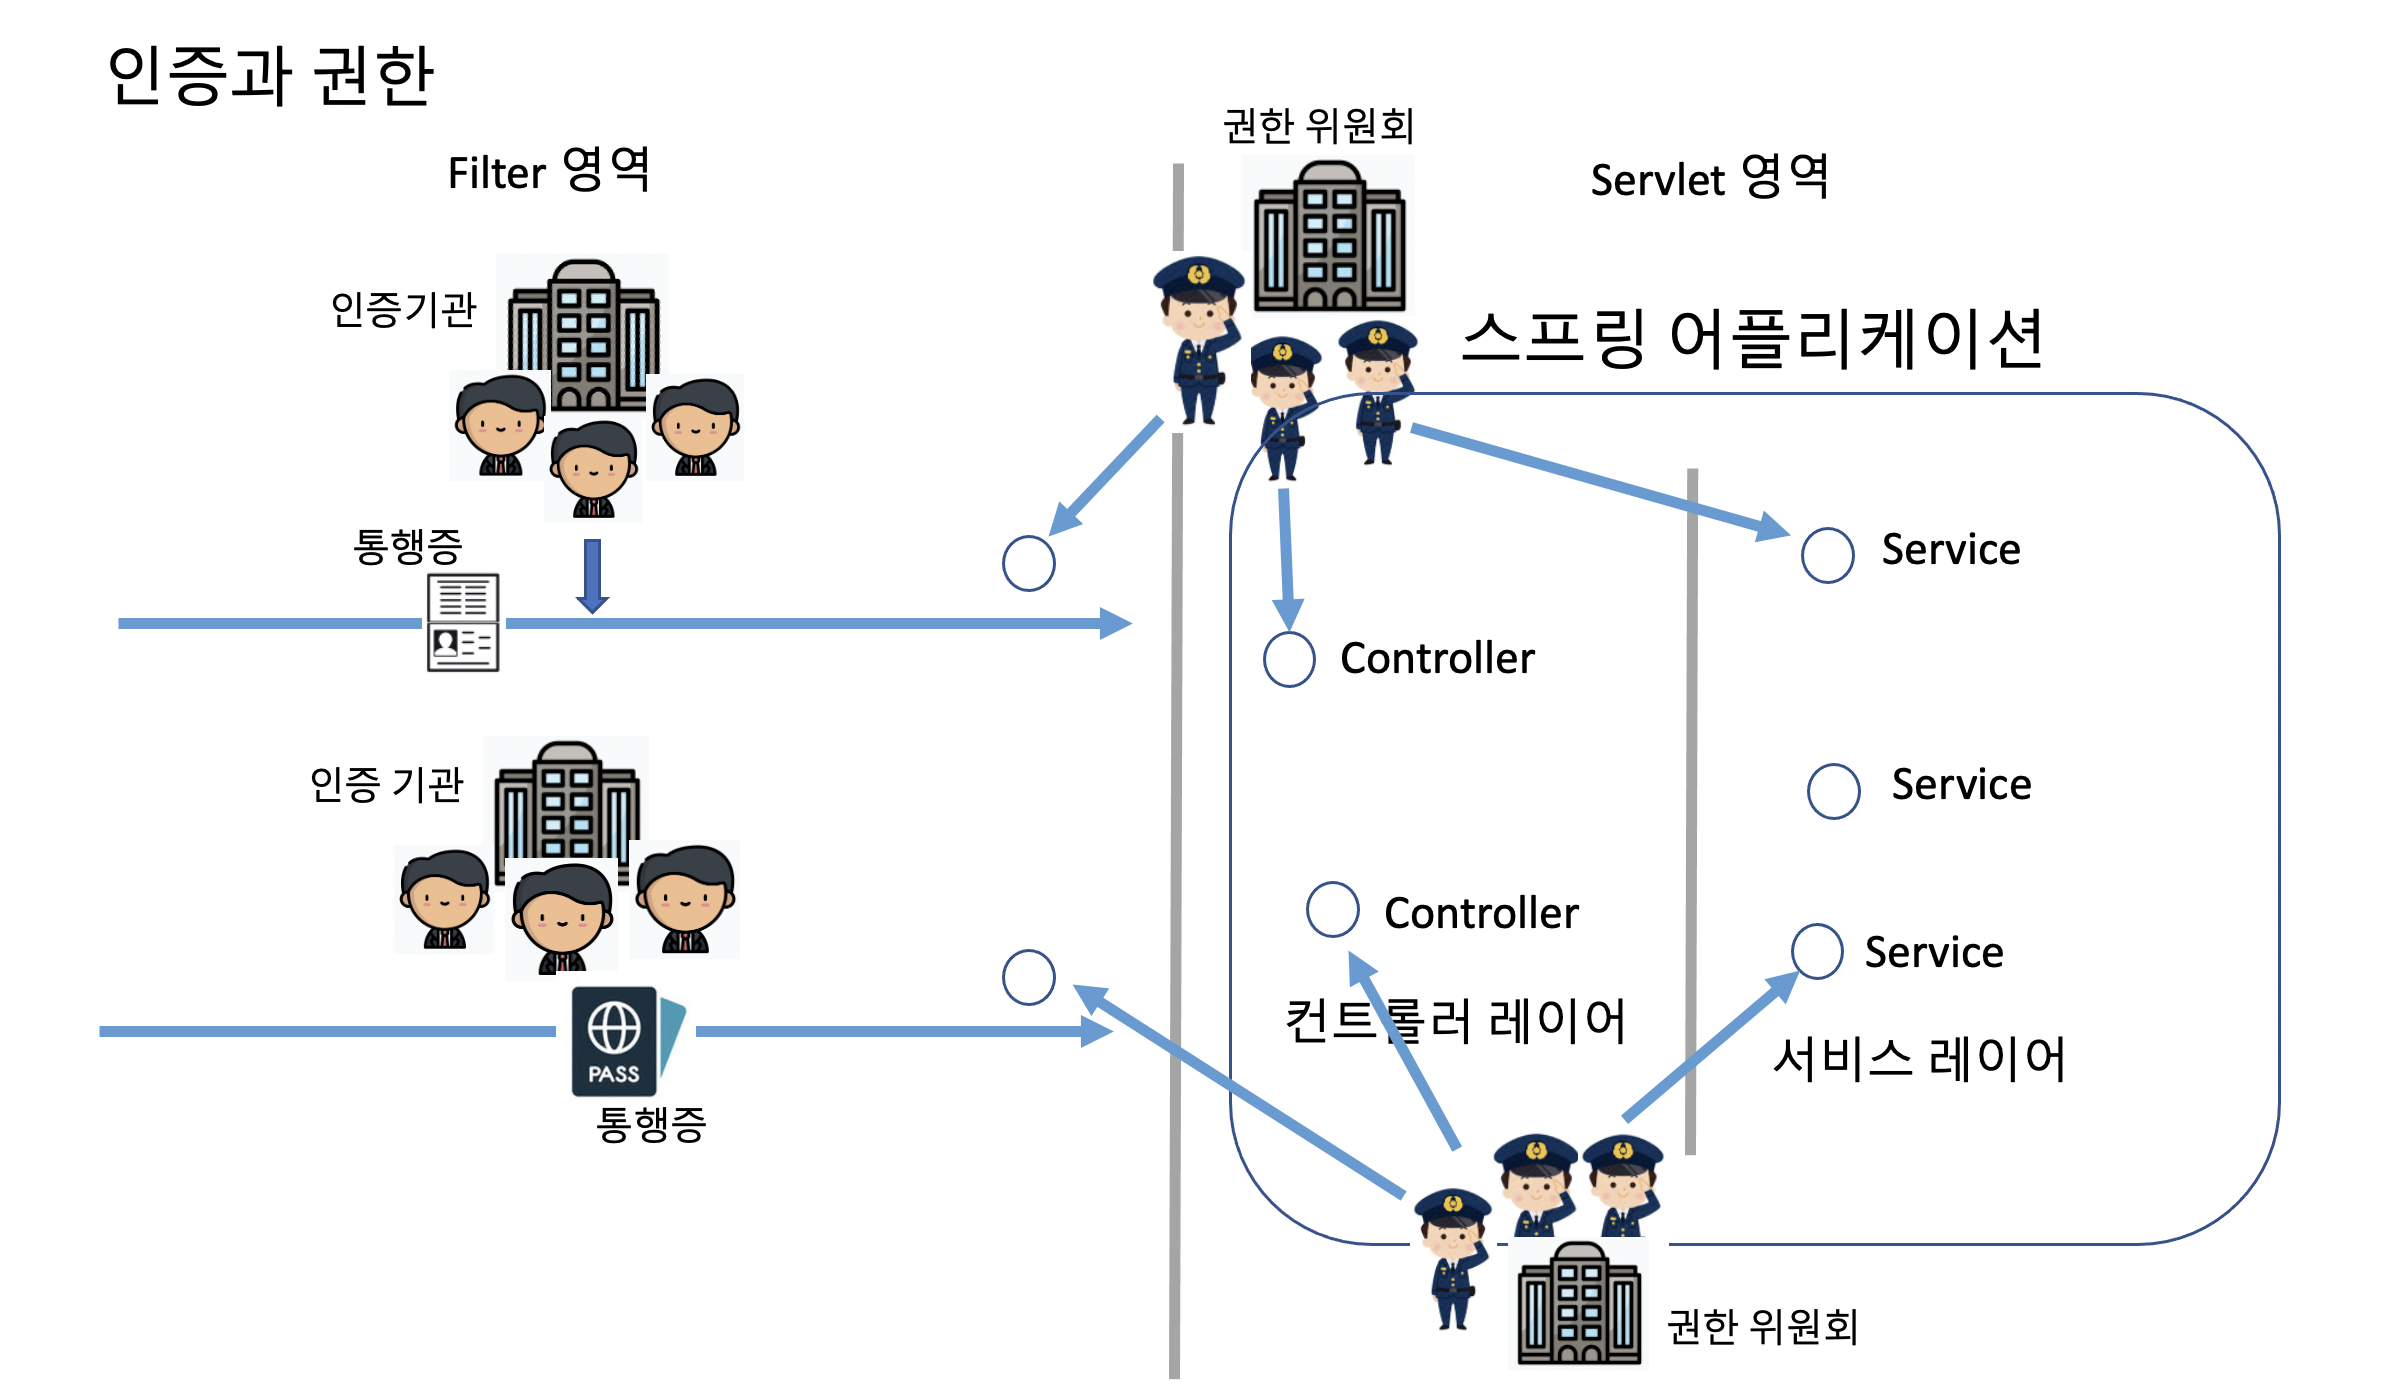
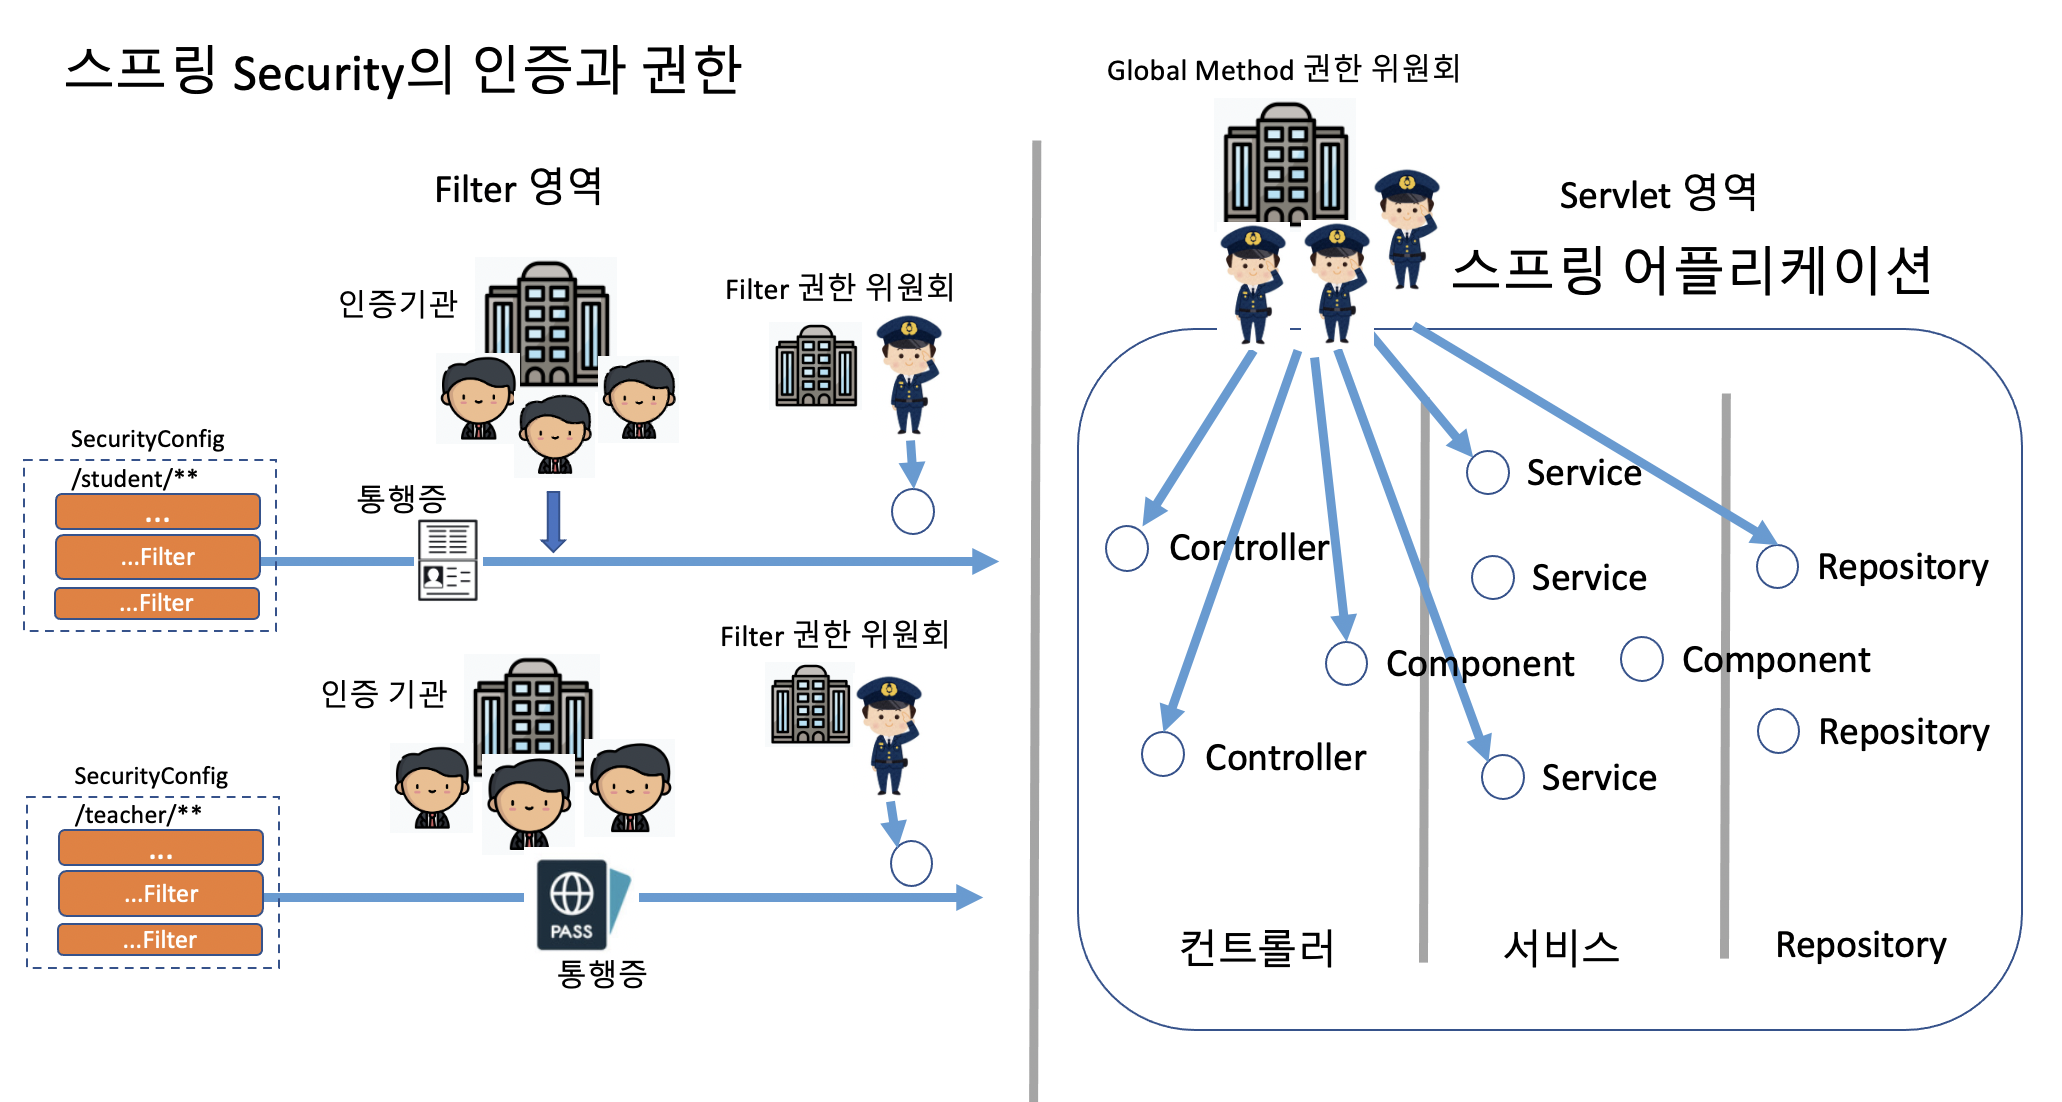
add

Changed region(s): [[0.0, 0.0309, 0.9622, 1.0], [0.8691, 0.6479, 0.9622, 0.6788], [0.9311, 0.3085, 0.9622, 0.3394]]

diff --git a/part2/Lec-1 권한의 큰 그림.md b/part2/Lec-1 권한의 큰 그림.md
@@ -1,70 +1,77 @@
 # 스프링 시큐리티의 권한
 
-인증이 모든 요청에 대해 공통적으로 처리해야 하는 것인데 반해 권한은 상황상황에 맞게 처리해야 하는 특징이 있습니다. 그래서 인증을 처리하는 코드는 필터와 어울리고, 권한은 interceptor 와 어울려 작동합니다. 필터는 servlet container 가 제공하는 구조를 스프링이 자체 filterchain 을 만들어서 관리하는 방식으로 처리하고 있고, interceptor 는 스프링이 빈을 등록하고 프락시 객체를 가지고 엮어주는 과정에서 각 point cut에 interceptor 를 제공하는 메커니즘으로 작동합니다. 필터 위에 상주하는 Interceptor 를 FilterSecurityInterceptor라 하고 Method 위에 annotation의 형태로 상주하는 Interceptor 를 MethodSecurityInterceptor 라고 합니다.
+## AOP : Aspect Oriented Programming
+
+스프링 전반을 아우르는 여러 철학이 있습니다. 가장 중요한 철학은 DI(의존성 주입) 이죠. 개발자가 직접 코딩하지 말고 컨테이너에게 맡기라는 말입니다. DI를 통해 약한 상관성(Loosely coupled)을 설계할 수 있고 모듈화를 완성할 수 있습니다. DI와 함께 매우 중요한 철학이 관심사의 분리입니다. 코드를 스파게티로 엮지 말고 관심이 있는 코드들을 따로 관리하라는 거죠. 관심사 분리가 가능한 이유는 AOP 기술 덕분입니다. AOP는 아래와 같은 개념들로 구성됩니다.
+
+### AOP란
+
+- Aspect : 공통의 관심사
+  - 권한 처리
+  - 로그
+  - 트렌젝션 관리
+  - 세션관리
+  - 기타...
+- JoinPoint : 관절. 빈과 빈 사이에서 호출이 일어나는 곳
+  - 메소드 호출
+  - setter 를 통한 멤버 주입
+  - 생성자 호출
+- Advice : 호출시 추가로 처리해줄 로직
+  - 인터셉트 해서 주입해줄 코드
+- PointCut : JoinPoint 를 만들어 내는 칼
+  - JoinPoint 를 지적해주는 Expression
+- Weaving
+  - 빈과 빈을 Proxy 로 감싸서 연결해주는 작업
+  - 빈과 빈의 호출사이에 PointCut을 적용해서 JoinPoint 를 판별한 다음 PointCut 을 요청한 Advice를 JoinPoint에 적용해줌.
+
+## 권한 (Authorization)
+
+- 인증이 모든 요청에 대해 공통적으로 처리해야 하는 것인데 반해 권한은 상황상황에 맞게 처리해야 하는 특징이 있습니다.
+- 그래서 인증을 처리하는 코드는 필터와 어울리고, 권한은 interceptor 와 어울려 작동합니다. 필터는 servlet container 가 제공하는 구조를 스프링이 자체 filterchain 을 만들어서 관리하는 방식으로 처리하고 있고, interceptor 는 스프링이 빈을 등록하고 프락시 객체를 가지고 엮어주는 과정에서 각 PointCut에 의해 구분된 JoinPoint에 interceptor 가 Advice 하는 메커니즘으로 작동합니다.
+- 필터 위에 상주하는 Interceptor 를 FilterSecurityInterceptor라 하고 Method 위에 annotation의 형태로 상주하는 Interceptor 를 MethodSecurityInterceptor 라고 합니다. FilterInterceptor 는 필터 설정에서 설정하고 MethodInterceptor 는 annotation 으로 설정합니다. @EnableGlobalMethodSecurity 를 설정해줘야 MethodSecurityInterceptor 가 동작합니다.
+
+## 권한 처리의 예
+
+-
+
+## 권한 처리에 관여하는 것들
+
 그런데 권한을 체크하려면 다음의 정보가 필요합니다.
 
 - 접근하려고 하는 사람이 어떤 접근 권한을 가지고 있는가?
 
   - GrantedAuthority
+    - Role Based
+    - Scope Based
+    - User Defined
 
 - 접근하려고 하는 상황에서는 체크해야 할 내용은 무엇인가?
 
   - SecurityMetadataSource, ConfigAttribute
   - 정적인 경우와 동적인 경우
-  - AccessDecisionVoter
+  - AccessDecisionVoter 가 vote 해줌.
 
 - 여러가지 판단 결과가 나왔을 때 취합은 어떤 방식으로 할 것인가?
 
-  - AccessDecisionManager
+  - AccessDecisionManager : 권한 위원회
+    - AffirmativeBased : 긍정 위원회
+    - ConsensusBased : 다수결 위원회
+    - UnanimouseBased : 만장일치 위원회
 
-  <img src="../images/fig-22-authorization-2.png" width="400" style="max-width:400px;width:100%;" />
-
-- 스프링 시큐리티에서 인증(Authentication)과 권한(Authorization)은 두 개의 큰 축입니다.
--
+## 권한 처리 위원회
 
 <img src="../images/fig-18-authentication-authorization-2.png" width="600" style="max-width:600px;width:100%;" />
 
 - 인증이 Filter 영역에서 구현되는 반면 권한은 Filter 영역과 servlet 영역에서 모두 구현되어 적용됩니다.
+- SecurityFilerChain 당 한개의 AccessDecisionManager 를 둘 수 있습니다.
+
+<img src="../images/fig-22-authorization-2.png" width="600" style="max-width:600px;width:100%;" />
+
 - 인증이 AuthenticationFilter 를 가지고 Authentication을 발급해주는 관계였다면, 권한은 SecurityInterceptor 에서 Access Granted 와 Denied 를 판정하는 결과를 만들어 내는 대응 관계를 가지고 있습니다.
 - 인증이 제공해 주는 권한과 각 Interceptor가 위치한 포인트의 조건들(ConfigAttribute) 들을 가지고 판정을 내려주는 Voter 들에 따라 Granted / Denied 가 구분이 됩니다. 그렇지만 권한은 인증보다 훨씬 상황이 다양하다고 볼 수 있습니다.
+- AccessDecisionManager 는 인터페이스입니다. 반드시 Voter 를 구현해서 처리해야 할 필요는 없습니다. 솔직히 Application을 구현한다면 Voter 없이 구현하는 것이 간단할 수 있습니다.
 
-## AccessDecisionManager : 권한 위원회
-
-- SecurityFilerChain 당 한개의 AccessDecisionManager 를 둘 수 있습니다.
-- AffirmativeBased : 한개라도 허가하면 허가됨.
-- ConsensusBased : 다수결
-- UnanimouseBased : 만장일치
-
-## AuthenticatedVoter
-
-- fully authenticated
-- remember me
-- anonymous
-
-## RoleVoter
-
-- ROLE_xxx : GrantedAuthority
-- 권한 계층 선언
-
-## WebExpressionVoter
-
-- SpEL 로 표현한 권한식
-
-## PreInvocationAuthorizationVoter
-
-## AccessDecisionVoter
-
-- 권한 심사 위원회에 참여하는 투표자
-- 결정
-  - ACCESS_GRANTED : 허가
-  - ACCESS_DENIED : 불허
-  - ACCESS_ABSTAIN : 보류
-
-# Granted Authority
-
-- Role
-  - Role\_ 로 시작하는 권한으로 변환해줌.
-- Authority
+---
 
 ### 참고 자료
 

diff --git a/part2/Lec-2 권한 처리.md b/part2/Lec-2 권한 처리.md
@@ -1,12 +1,8 @@
-## Authorization (권한)
+# 권한 처리
 
-- 기본적으로 권한은 인증이 모두 확인된 뒤에 체크할 수 있기 때문에 필터의 가장 마지막에 있는 FilterSecurityInterceptor 를 통해 체크한다.
-- 하지만 모든 권한을 여기에서 체크할 수 있는 것은 아니다. Controller나 Service 안에서도 문맥에 따라 권한을 처리할 수 있고 AccessDeniedException을 발생시킬 수 있다.
-- AccessDecisionManager 가 접근 가능 여부에 대한 Decesion(판결)을 내릴 수 있는 Voter 들을 모아서 판결을 내리는 구조이다.
+## 필터에서 권한 체크하기
 
-## url 패턴으로 권한 설정하기
-
-WebSecurityConfigurarAdapter 에서 설정한다.
+WebSecurityConfigurarAdapter 에서 설정합니다.
 
 ```java
 
@@ -14,6 +10,71 @@ WebSecurityConfigurarAdapter 에서 설정한다.
 
 ```
 
-## Annotation 을 이용해 설정
+## 메쏘드에서 권한 체크 하기
 
-## AOP 를 이용하는 방법
+- SecurityExpressionRoot 클래스에서 설정
+
+| 표현식                                                               | 의미                                                                                                                                                     |
+| -------------------------------------------------------------------- | :------------------------------------------------------------------------------------------------------------------------------------------------------- |
+| hasRole(String role)                                                 | princial 이 해당 role을 가지고 있으면 true                                                                                                               |
+| hasAnyRole(String... roles)                                          | principal 이 제시한 role 중에 한개라도 있으면 true.                                                                                                      |
+| hasAuthority(String authority)                                       | principal 이 제시한 authority를 가지고 있으면 true                                                                                                       |
+| principal                                                            | 인증서의 principal 객체에 바로 접근 가능                                                                                                                 |
+| permitAll                                                            | 모두 허용                                                                                                                                                |
+| denyAll                                                              | 모두 거부                                                                                                                                                |
+| isAnonymous()                                                        | 익명사용자                                                                                                                                               |
+| isRememberMe()                                                       | 자동 로그인 사용자                                                                                                                                       |
+| isAuthenticated()                                                    | 익명사용자가 아니면 true                                                                                                                                 |
+| isFullyAuthenticated()                                               | 익명사용자나 자동로그인한 사용자가 아니면 true                                                                                                           |
+| hasPermission(Object target, Object permission)                      | Returns true if the user has access to the provided target for the given permission. For example, hasPermission(domainObject, 'read')                    |
+| hasPermission(Object targetId, String targetType, Object permission) | Returns true if the user has access to the provided target for the given permission. For example, hasPermission(1, 'com.example.domain.Message', 'read') |
+
+### WebExpressionVoter
+
+- Bean 객체를 만들고 호출해서 사용할 수 있습니다.
+  - @ 로 빈 이름을 사용
+- URL 에 path variable 을 선언해서 체크할 수 있습니다.
+  - # 으로 변수 이름에 접근
+- WebSecurityExpressionRoot 를 사용합니다.
+
+## AccessDecisionVoter
+
+- 권한 심사 위원회에 참여하는 투표자
+- 결정
+  - ACCESS_GRANTED : 허가
+  - ACCESS_DENIED : 불허
+  - ACCESS_ABSTAIN : 보류
+
+### 1. AuthenticatedVoter
+
+인증(통행증)을 받았다면 그 인증의 종류가 어떤 종류인지를 판단합니다. 이제 막 인증을 받고 들어온 사용자와 RememberMe 토큰을 통해서 들어온 사용자와 익명 사용자를 구분하기 위해 쓰입니다. RememberMe 인증 사용자는 탈취된 토큰을 가지고 들어온 사용자일 수 있기 때문에 필요한 경우 한번 더 인증을 요구할 수 있습니다.
+
+- fully authenticated
+- remember me
+- anonymous
+
+### 2. RoleVoter
+
+Role 기반의 권한은 리눅스부터 아파치, 톰켓등 IT 초기부터 전통적으로 구현해서 사용하던 가장 직관적인 권한 체계입니다. 하지만, Role 을 기반으로 권한을 판단하기엔, 상황이 너무 다양해졌죠. 그래서 Role 을 확장한 Authority 기반의 권한 체계를 사용하고 있습니다. 그렇지만, 기존의 Role 기반이 가지고 있는 직관적이고 계층적인 사용성을 그대로 사용할 수 있도록 해주기 위해 RoleVoter가 쓰입니다.
+
+- ROLE_xxx : GrantedAuthority
+- 권한 계층 선언 : RoleHierarchyVoter
+
+### 3. WebExpressionVoter
+
+- 필터에서 설정하는 voter (FilterInvocation)
+- SpEL 로 표현한 권한식
+
+### 4. PreInvocationAuthorizationAdviceVoter
+
+### 5. AbstractACLVoter
+
+---
+
+## Granted Authority
+
+- Role
+  - Role\_ 로 시작하는 권한으로 변환해줌.
+  - Role Hierarchy 장치를 사용할 수 있음.
+- Authority
+  - 다양한 권한을 설계할 수 있는 유연한 구조임.

diff --git a/part2/Lec-4 AOP를 활용한 권한 체크.md b/part2/Lec-4 AOP를 활용한 권한 체크.md
@@ -1,0 +1,13 @@
+# AOP 를 활용한 동적 권한 설계
+
+DB에 권한 체크를 설계해서 적용할 수 있다.
+
+권한 모델을 설계하고 DB에 저장한다. 서버가 뜰 때 권한 모델을 메모리에 올리거나 매번 DB를 쿼리한다.
+
+예를 들어 시험지를 생각해보자.
+
+시험지의 상태에 따라 권한이 바뀐다.
+
+그런데 그 권한조차도 DB 에서 동적으로 설정한다고 생각해 보자.
+
+다른 선생님들이 그 시험지에 접근해서 볼 수 있다고 가정해 보자.

diff --git a/part2/Lec-3 권한 계층과 임시권한 부여.md b/part2/Lec-3 권한 계층과 임시권한 부여.md
@@ -1,3 +1,7 @@
 # RoleHierarchy
 
 - 권한을 승계할 수 있다.
+
+# RunAsManager
+
+임시권한을 부여해 줄 수 있다.
